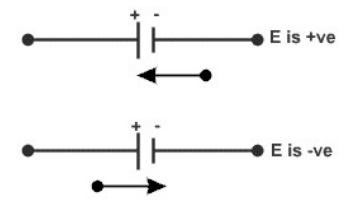
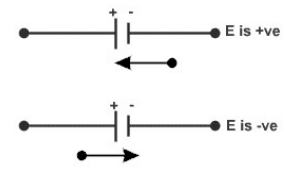
Repara columnas y operador de superficie en la hoja de fórmulas

diff --git a/notes/2019/teoria/hoja-formulas-2019-parte-1.md b/notes/2019/teoria/hoja-formulas-2019-parte-1.md
@@ -12,14 +12,14 @@ FISICA II – IEM – IQ – ISI (esta hoja debe ser devuelta junto con el exame
 
 |  |  |  |
 | -- | -- | -- |
-| \$\`\\displaystyle \\left | \\vec F\\right | =\\frac1{4\\pi\\varepsilon_0}\\cdot\\frac\{q_1q_2}{r\_\{12}^2}`$<br>$`\\displaystyle \\varepsilon_0=8.85\\times10^\{-12}\\frac{C^2}{N\\cdot m^2}\`\$ |
-| \$\`\\displaystyle \\left | \\vec E_Q\\right | =\\frac1{4\\pi\\varepsilon_0}\\cdot\\frac Q{r^2}\`\$ |
-| \$\`\\displaystyle \\left | \\vec E\_\\lambda\\right | =\\frac1{2\\pi\\varepsilon_0}\\cdot\\frac{\\lambda}\{r}\`\$ |
-| $`\displaystyle \oiint\vec E\cdot d\vec s=\frac{\iiint\rho\cdot dV}{\varepsilon_0}`$ | $`\displaystyle \Delta V_{AB}=-\int_A^B\vec E\cdot d\vec l`$ | $`\displaystyle V_Q=\frac Q{4\pi\varepsilon_0r}`$ |
+| $`\displaystyle \lvert\vec F\rvert=\frac1{4\pi\varepsilon_0}\cdot\frac{q_1q_2}{r_{12}^2}`$<br>$`\displaystyle \varepsilon_0=8.85\times10^{-12}\frac{C^2}{N\cdot m^2}`$ | $`\displaystyle F_x=\frac{q_0}{4\pi\varepsilon_0}\cdot\sum_{i=1}^{N}\frac{q_i(x_0-x_i)}{[(x_0-x_i)^2+(y_0-y_i)^2+(z_0-z_i)^2]^{3/2}}`$ | $`\displaystyle \vec E=\frac{\vec F}{q}`$ |
+| $`\displaystyle \lvert\vec E_Q\rvert=\frac1{4\pi\varepsilon_0}\cdot\frac Q{r^2}`$ | $`\displaystyle E_{Qx}=\frac1{4\pi\varepsilon_0}\cdot\sum_{i=1}^{N}\frac{Q_i(x-x_i)}{[(x-x_i)^2+(y-y_i)^2+(z-z_i)^2]^{3/2}}`$ | $`\displaystyle \lvert\vec E_\sigma\rvert=\frac{\sigma}{2\varepsilon_0}`$ |
+| $`\displaystyle \lvert\vec E_\lambda\rvert=\frac1{2\pi\varepsilon_0}\cdot\frac{\lambda}{r}`$ | $`\displaystyle E_{\lambda x}=\frac1{2\pi\varepsilon_0}\cdot\frac{\lambda(x-x_\lambda)}{[(x-x_\lambda)^2+(y-y_\lambda)^2+(z-z_\lambda)^2]}`$ | $`\displaystyle \mathop{∯}\nolimits\vec E\cdot d\vec s=\frac Q{\varepsilon_0}`$ |
+| $`\displaystyle \mathop{∯}\nolimits\vec E\cdot d\vec s=\frac{\iiint\rho\cdot dV}{\varepsilon_0}`$ | $`\displaystyle \Delta V_{AB}=-\int_A^B\vec E\cdot d\vec l`$ | $`\displaystyle V_Q=\frac Q{4\pi\varepsilon_0r}`$ |
 | $`\displaystyle \Delta V_{\sigma AB}=\frac{\sigma}{2\varepsilon_0}(x_A-x_B)`$ | $`\displaystyle \Delta V_{AB}=\frac{\lambda}{2\pi\varepsilon_0}\cdot\ln\frac{r_A}{r_B}`$<br>$`\displaystyle r_A\ge r_B`$ | $`\displaystyle C=\frac Q{\Delta V}`$ |
 | $`\displaystyle C=\frac{\varepsilon_0A}{d}`$ | $`\displaystyle C_P=C_1+C_2;\qquad C_S^{-1}=C_1^{-1}+C_2^{-1}`$ | $`\displaystyle U=\frac12CV^2`$ |
 | $`\displaystyle \varepsilon=\varepsilon_0\varepsilon_r`$ | $`\displaystyle \chi_e=\varepsilon_r-1;\quad\vec P=\varepsilon_0\chi_e\vec E;\quad\vec D=\varepsilon_0\vec E+\vec P`$ | $`\displaystyle \vec D=\varepsilon\vec E`$ |
-| $`\displaystyle \oiint\vec D\cdot d\vec s=Q`$<br>$`\displaystyle \oiint\vec P\cdot d\vec s=-Q_P`$ | $`\displaystyle R=\rho\frac LS;\quad\vec E=\rho\vec J;\quad P=i^2R`$<br>$`\displaystyle I=\iint\vec J\cdot d\vec s`$ | $`\displaystyle I=NqvA`$ |
+| $`\displaystyle \mathop{∯}\nolimits\vec D\cdot d\vec s=Q`$<br>$`\displaystyle \mathop{∯}\nolimits\vec P\cdot d\vec s=-Q_P`$ | $`\displaystyle R=\rho\frac LS;\quad\vec E=\rho\vec J;\quad P=i^2R`$<br>$`\displaystyle I=\iint\vec J\cdot d\vec s`$ | $`\displaystyle I=NqvA`$ |
 | $`\displaystyle N=\frac{\delta}{P_{\mathrm{molecular}}}\cdot N_{\mathrm{Avogadro}}`$ | $`\displaystyle R_S=R_1+R_2;\qquad R_P^{-1}=R_1^{-1}+R_2^{-1}`$ | $`\displaystyle V=IR`$ |
 | $`\displaystyle \sum i_s=\sum i_e`$<br>$`\displaystyle \sum iR=\sum E`$<br>![Signos deE para dos fuentes recorridas según la flecha](../../../resources/2019/hoja-formulas-2019/fuentes-izquierda.png) | 1) Poner la calculadora en modoSD.<br>2) Pulsar la tecla0 y después la teclaM+ hasta llegar al n°80.<br>3) (aparece DATA FULL).<br>4) Presionar AC (tecla roja)<br>5) Pulsar el2, dar arriba y poner13hasta que no quepan más<br>6) Dar=dos veces y pulsar0 y luego1<br>7) Presionar MODE hasta que aparezca EQN MAT VCT. Seleccionar EQN e ingresar coeficientes. | $`\displaystyle \sum i_s-\sum i_e=0`$<br>$`\displaystyle \sum iR+\sum E=0`$<br>![Signos deE del planteo algebraico alternativo](../../../resources/2019/hoja-formulas-2019/fuentes-derecha.png) |
 | ![Signos−IR y+IR en recorridos de una resistencia](../../../resources/2019/hoja-formulas-2019/resistencias-izquierda.png) |  | ![Signos+IR y−IR en recorridos de una resistencia](../../../resources/2019/hoja-formulas-2019/resistencias-derecha.png) |
